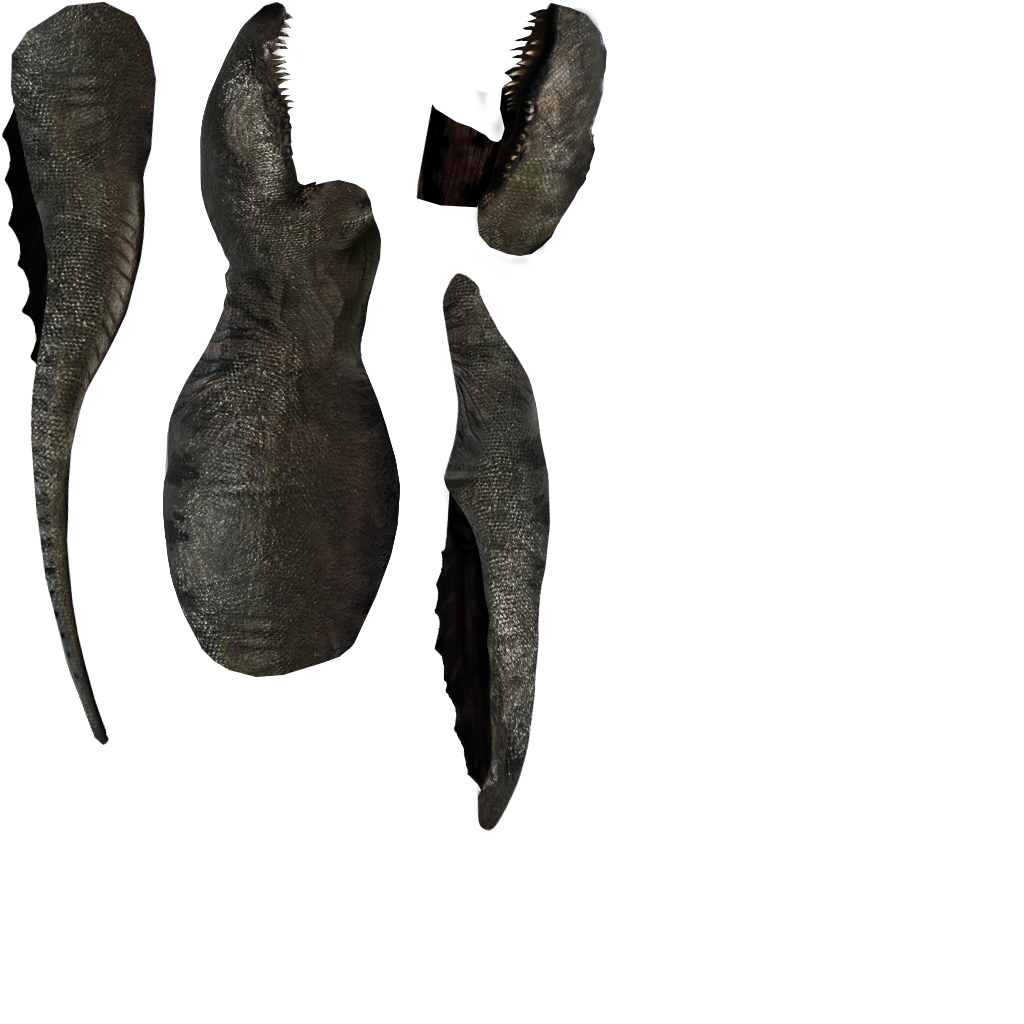
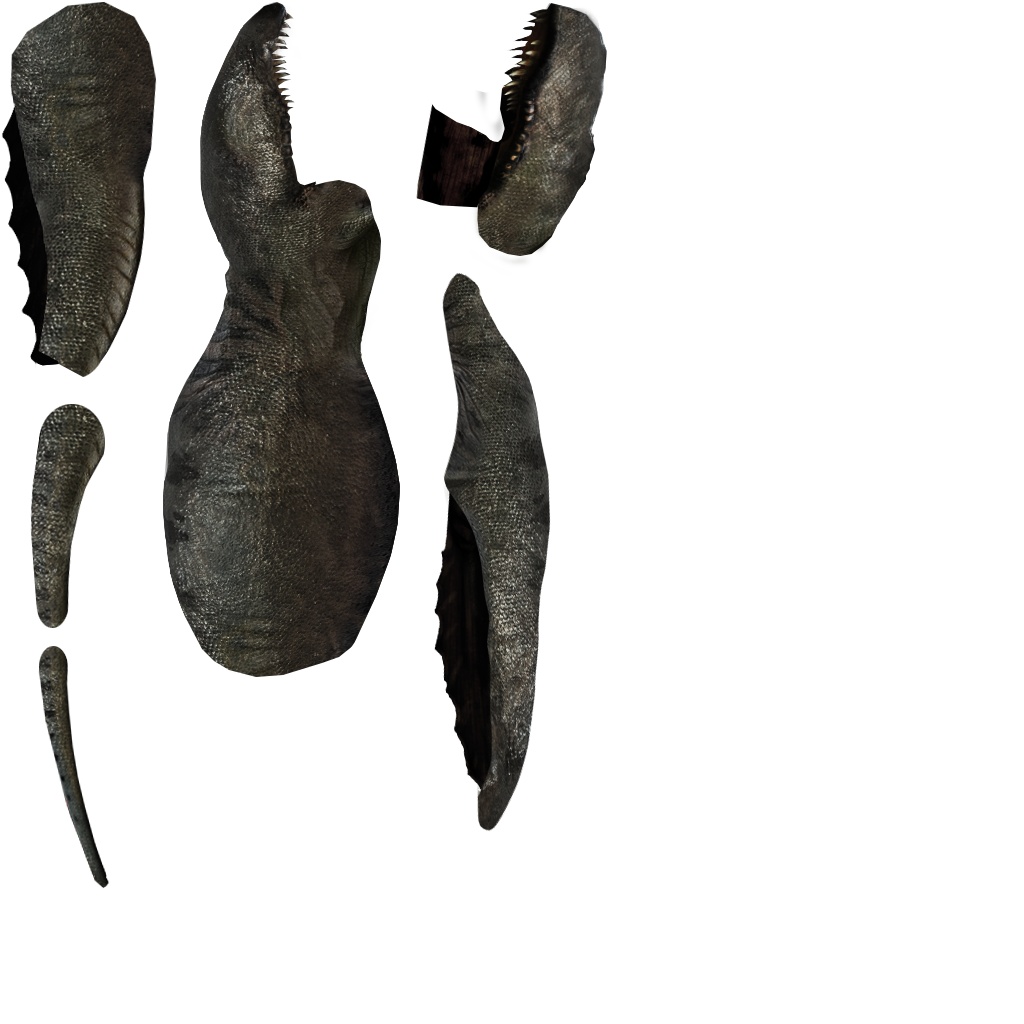
- Charybdis's and coelanths can eat other creatures. - Split charybdis's tail into several parts, the single stiff tail limb made it too difficult for it to turn around. - Option to override the torque that's used to rotate the mainlimb of swimming creatures to the correct direction. - The scale of 

Changed region(s): [[0.0312, 0.3438, 0.125, 0.8438], [0.0938, 0.8438, 0.125, 0.875]]

diff --git a/Barotrauma/Source/Screens/EditCharacterScreen.cs b/Barotrauma/Source/Screens/EditCharacterScreen.cs
@@ -253,24 +253,27 @@ namespace Barotrauma
                 {
                     continue;
                 }
-                
-                jointPos.Y = -jointPos.Y;
-                jointPos += limbBodyPos;
+
+                Vector2 tformedJointPos = jointPos /= limb.Scale;                
+                tformedJointPos.Y = -tformedJointPos.Y;
+                tformedJointPos += limbBodyPos;
+
                 if (joint.BodyA == limb.body.FarseerBody)
                 {
                     float a1 = joint.UpperLimit - MathHelper.PiOver2;
                     float a2 = joint.LowerLimit - MathHelper.PiOver2;
-                    float a3 =( a1+a2)/2.0f;
-                GUI.DrawLine(spriteBatch, jointPos, jointPos + new Vector2((float)Math.Cos(a1), -(float)Math.Sin(a1)) * 30.0f, Color.Green);
-                GUI.DrawLine(spriteBatch, jointPos, jointPos + new Vector2((float)Math.Cos(a2), -(float)Math.Sin(a2)) * 30.0f, Color.DarkGreen);
+                    float a3 = (a1 + a2) / 2.0f;
+                    GUI.DrawLine(spriteBatch, tformedJointPos, tformedJointPos + new Vector2((float)Math.Cos(a1), -(float)Math.Sin(a1)) * 30.0f, Color.Green);
+                    GUI.DrawLine(spriteBatch, tformedJointPos, tformedJointPos + new Vector2((float)Math.Cos(a2), -(float)Math.Sin(a2)) * 30.0f, Color.DarkGreen);
 
-                GUI.DrawLine(spriteBatch, jointPos, jointPos + new Vector2((float)Math.Cos(a3), -(float)Math.Sin(a3)) * 30.0f, Color.LightGray);
+                    GUI.DrawLine(spriteBatch, tformedJointPos, tformedJointPos + new Vector2((float)Math.Cos(a3), -(float)Math.Sin(a3)) * 30.0f, Color.LightGray);
                 }
 
-                GUI.DrawRectangle(spriteBatch, jointPos, new Vector2(5.0f, 5.0f), Color.Red, true);
-                if (Vector2.Distance(PlayerInput.MousePosition, jointPos) < 6.0f)
+                GUI.DrawRectangle(spriteBatch, tformedJointPos, new Vector2(5.0f, 5.0f), Color.Red, true);
+                if (Vector2.Distance(PlayerInput.MousePosition, tformedJointPos) < 10.0f)
                 {
-                    GUI.DrawRectangle(spriteBatch, jointPos - new Vector2(3.0f, 3.0f), new Vector2(11.0f, 11.0f), Color.Red, false);
+                    GUI.DrawString(spriteBatch, tformedJointPos + Vector2.One*10.0f, jointPos.ToString(), Color.White, Color.Black * 0.5f);
+                    GUI.DrawRectangle(spriteBatch, tformedJointPos - new Vector2(3.0f, 3.0f), new Vector2(11.0f, 11.0f), Color.Red, false);
                     if (PlayerInput.LeftButtonHeld())
                     {
                         Vector2 speed = ConvertUnits.ToSimUnits(PlayerInput.MouseSpeed);

diff --git a/Barotrauma/Source/Characters/Animation/FishAnimController.cs b/Barotrauma/Source/Characters/Animation/FishAnimController.cs
@@ -15,6 +15,8 @@ namespace Barotrauma
         private float waveAmplitude;
         private float waveLength;
 
+        private float steerTorque;
+
         private bool rotateTowardsMovement;
 
         private bool mirror, flip;
@@ -28,13 +30,15 @@ namespace Barotrauma
         public FishAnimController(Character character, XElement element)
             : base(character, element)
         {
-            waveAmplitude = ConvertUnits.ToSimUnits(ToolBox.GetAttributeFloat(element, "waveamplitude", 0.0f));
-            waveLength = ConvertUnits.ToSimUnits(ToolBox.GetAttributeFloat(element, "wavelength", 0.0f));
+            waveAmplitude   = ConvertUnits.ToSimUnits(ToolBox.GetAttributeFloat(element, "waveamplitude", 0.0f));
+            waveLength      = ConvertUnits.ToSimUnits(ToolBox.GetAttributeFloat(element, "wavelength", 0.0f));
+
+            steerTorque     = ToolBox.GetAttributeFloat(element, "steertorque", 25.0f);
             
-            flip = ToolBox.GetAttributeBool(element, "flip", true);
-            mirror = ToolBox.GetAttributeBool(element, "mirror", false);
+            flip            = ToolBox.GetAttributeBool(element, "flip", true);
+            mirror          = ToolBox.GetAttributeBool(element, "mirror", false);
             
-            float footRot = ToolBox.GetAttributeFloat(element,"footrotation", float.NaN);
+            float footRot = ToolBox.GetAttributeFloat(element, "footrotation", float.NaN);
             if (float.IsNaN(footRot))
             {
                 footRotation = null;
@@ -184,12 +188,12 @@ namespace Barotrauma
             if (rotateTowardsMovement)
             {
                 Collider.SmoothRotate(movementAngle, 25.0f);
-                MainLimb.body.SmoothRotate(movementAngle, 25.0f);
+                MainLimb.body.SmoothRotate(movementAngle, steerTorque);
             }
             else
             {
                 Collider.SmoothRotate(HeadAngle * Dir, 25.0f);
-                MainLimb.body.SmoothRotate(HeadAngle * Dir, 25.0f);
+                MainLimb.body.SmoothRotate(HeadAngle * Dir, steerTorque);
             }
 
             Limb tail = GetLimb(LimbType.Tail);

diff --git a/Barotrauma/Source/Characters/AI/EnemyAIController.cs b/Barotrauma/Source/Characters/AI/EnemyAIController.cs
@@ -485,6 +485,7 @@ namespace Barotrauma
                     {
                         //only one limb left, the character is now full eaten
                         Entity.Spawner.AddToRemoveQueue(targetCharacter);
+                        selectedAiTarget = null;
                         state = AIState.None;
                     }
                     else //sever a random joint

diff --git a/Barotrauma/Source/Characters/Limb.cs b/Barotrauma/Source/Characters/Limb.cs
@@ -136,6 +136,11 @@ namespace Barotrauma
             get { return body.Rotation; }
         }
 
+        public float Scale
+        {
+            get { return scale; }
+        }
+
         //where an animcontroller is trying to pull the limb, only used for debug visualization
         public Vector2 AnimTargetPos
         {
